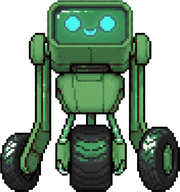
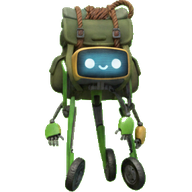
art: replace the tinted starter cogs with nano-banana Softmax cogs, one kit per seat (#1)
The four seat sprites are now a Gemini (nano-banana) render of the canonical
Softmax cog kitted for the lighthouse: the red keeper raises a brass lantern
and carries a spyglass, the blue runner wears a striped life ring, the green
runner a canvas backpack with coiled rope, the yellow runner a signal flag.
The source sheet is committed under scripts/art/source/ and
scripts/art/split_cog_sheet.py keys (edge flood fill + border-median
backdrop), splits and pads it into data/soldier_<colour>_front.png, keeping
the starter file names so the bundle script and tests are untouched.

The viewer draws runners at 1.45 cells with their wheels on the tile's lower
edge so the kit reads, with the seat tint as a ground ellipse under the
wheels (the pending ring moves there too), shows the keeper cog at the foot
of the tower, and uses the runner's own sprite in its 3x3 thumbnail.

diff --git a/client/renderer.js b/client/renderer.js
@@ -617,7 +617,7 @@
         layout.scale);
     }
 
-    drawLighthouse(ctx, layout, view, now, fx);
+    drawLighthouse(ctx, images, layout, view, now, fx);
     // The keeper's private notes, on paper under the tower: the audience
     // watches the plan form. Only where there is room for it.
     var keeper = (view.seats || [])[0];
@@ -629,7 +629,7 @@
           layout.scale);
       }
     }
-    drawThumbnails(ctx, layout, view, now);
+    drawThumbnails(ctx, images, layout, view, now);
     drawSubtitle(ctx, layout, view, now, fx);
   }
 
@@ -638,11 +638,21 @@
     var sprite = images["soldier_" + color + "_front.png"];
     var cx = layout.boardX + (seat.pos[0] + 0.5) * cell;
     var cy = layout.boardY + (seat.pos[1] + 0.5) * cell;
-    var size = cell * 0.92;
+    // The nano-banana cog is drawn larger than its tile with its wheels
+    // on the tile's lower edge, so the kit (life ring, pack, flag) reads
+    // at board scale; the seat tint sits in a ground ellipse under the
+    // wheels rather than a ring that would hide the kit.
+    var size = cell * 1.45;
+    var feet = cy + cell * 0.42;
     ctx.save();
     if (sprite && sprite.width) {
-      ctx.imageSmoothingEnabled = false;
-      ctx.drawImage(sprite, cx - size / 2, cy - size / 2, size, size);
+      ctx.fillStyle = rgba(COLOR_HEX[color], 0.55);
+      ctx.beginPath();
+      ctx.ellipse(cx, feet - cell * 0.02, cell * 0.36, cell * 0.11, 0, 0,
+        Math.PI * 2);
+      ctx.fill();
+      ctx.imageSmoothingEnabled = true;
+      ctx.drawImage(sprite, cx - size / 2, feet - size, size, size);
     } else {
       ctx.fillStyle = COLOR_HEX[color];
       ctx.fillRect(cx - size / 3, cy - size / 3, size / 1.5, size / 1.5);
@@ -652,7 +662,8 @@
       ctx.lineWidth = Math.max(1, cell * 0.07);
       ctx.setLineDash([cell * 0.2, cell * 0.16]);
       ctx.beginPath();
-      ctx.arc(cx, cy, cell * 0.52, 0, Math.PI * 2);
+      ctx.ellipse(cx, feet - cell * 0.02, cell * 0.46, cell * 0.16, 0, 0,
+        Math.PI * 2);
       ctx.stroke();
       ctx.setLineDash([]);
     }
@@ -688,7 +699,7 @@
 
   // The tower: the show's logo moment, and a second read on "the keeper
   // spoke" — the beam flares on every transmit.
-  function drawLighthouse(ctx, layout, view, now, fx) {
+  function drawLighthouse(ctx, images, layout, view, now, fx) {
     var s = Math.max(18, Math.min(46, layout.height * 0.11));
     var x = layout.margin + s * 0.6;
     var y = layout.margin + s * 1.25;
@@ -725,10 +736,17 @@
     ctx.fillRect(x - s * 0.2, y - s * 0.9, s * 0.4, s * 0.35);
     ctx.fillStyle = INK;
     ctx.fillRect(x - s * 0.24, y - s * 0.95, s * 0.48, s * 0.07);
+    // The keeper, lantern raised, at the foot of the tower.
+    var keeper = images["soldier_red_front.png"];
+    if (keeper && keeper.width) {
+      var ks = s * 1.6;
+      ctx.imageSmoothingEnabled = true;
+      ctx.drawImage(keeper, x + s * 0.2, y + s * 0.6 - ks, ks, ks);
+    }
     ctx.restore();
   }
 
-  function drawThumbnails(ctx, layout, view, now) {
+  function drawThumbnails(ctx, images, layout, view, now) {
     if (!layout.thumbs.length) return;
     var runners = runnerSeats(view);
     layout.thumbs.forEach(function (box, index) {
@@ -762,9 +780,17 @@
               ctx.fillRect(px + sub * 0.2, py + sub * 0.2, sub * 0.6,
                 sub * 0.6);
             } else if (g === "@") {
-              ctx.fillStyle = color;
-              ctx.fillRect(px + sub * 0.22, py + sub * 0.22, sub * 0.56,
-                sub * 0.56);
+              var me = images["soldier_" + seatColor(index + 1) +
+                "_front.png"];
+              if (me && me.width) {
+                ctx.imageSmoothingEnabled = true;
+                ctx.drawImage(me, px - sub * 0.1, py - sub * 0.25,
+                  sub * 1.2, sub * 1.2);
+              } else {
+                ctx.fillStyle = color;
+                ctx.fillRect(px + sub * 0.22, py + sub * 0.22, sub * 0.56,
+                  sub * 0.56);
+              }
             } else if (g === "1" || g === "2" || g === "3") {
               ctx.fillStyle = COLOR_HEX[seatColor(Number(g))];
               ctx.fillRect(px + sub * 0.3, py + sub * 0.3, sub * 0.4,

diff --git a/scripts/art/split_cog_sheet.py b/scripts/art/split_cog_sheet.py
@@ -1,0 +1,142 @@
+#!/usr/bin/env python3
+"""Splits the nano-banana cog sheet into the four seat sprites.
+
+scripts/art/source/cogs_sheet.png is a single Gemini ("nano-banana") render
+of the Softmax cog in four kits — the red keeper with a brass lantern and
+spyglass, the blue runner with a striped life ring, the green runner with a
+canvas backpack and coiled rope, the yellow runner with a signal flag — on
+a flat green backdrop. This script keys the backdrop out with an edge flood
+fill (so the green runner's kit survives), splits the row into four, crops
+each to content, pads to a square and writes 192 px RGBA sprites under the
+starter's soldier_<colour>_front.png names, so the viewer, the bundle
+script and the tests are untouched:
+
+    python3 scripts/art/split_cog_sheet.py [outdir]
+
+Default outdir is data/.
+"""
+
+import os
+import sys
+from collections import deque
+
+from PIL import Image
+
+SRC = os.path.join(os.path.dirname(__file__), "source", "cogs_sheet.png")
+ROLES = ["soldier_red_front.png", "soldier_blue_front.png",
+         "soldier_green_front.png", "soldier_yellow_front.png"]
+SIZE = 192
+TOL = 60  # colour distance from the backdrop that still counts as backdrop
+
+
+def key_background(img):
+    img = img.convert("RGBA")
+    w, h = img.size
+    px = img.load()
+    # median of the border is robust to corner smudges in the render
+    border = [px[x, y][:3] for x in range(w) for y in (0, h - 1)] + \
+        [px[x, y][:3] for y in range(h) for x in (0, w - 1)]
+    bg = tuple(sorted(c[i] for c in border)[len(border) // 2] for i in range(3))
+
+    def near(p):
+        return sum((a - b) ** 2 for a, b in zip(p[:3], bg)) ** 0.5 <= TOL
+
+    seen = bytearray(w * h)
+    q = deque()
+    for x in range(w):
+        for y in (0, h - 1):
+            q.append((x, y))
+    for y in range(h):
+        for x in (0, w - 1):
+            q.append((x, y))
+    while q:
+        x, y = q.popleft()
+        if x < 0 or y < 0 or x >= w or y >= h or seen[y * w + x]:
+            continue
+        seen[y * w + x] = 1
+        if not near(px[x, y]):
+            continue
+        px[x, y] = (0, 0, 0, 0)
+        q.extend(((x + 1, y), (x - 1, y), (x, y + 1), (x, y - 1)))
+    # soften the keyed edge: fade pixels still tinted toward the backdrop
+    for y in range(h):
+        for x in range(w):
+            r, g, b, a = px[x, y]
+            if a and g > r + 40 and g > b + 40 and abs(g - bg[1]) < 30 and abs(r - bg[0]) < 40:
+                px[x, y] = (r, g, b, 0)
+    drop_specks(px, w, h)
+    return img
+
+
+def drop_specks(px, w, h, min_area=None):
+    """Clears opaque blobs far smaller than a character (corner smudges)."""
+    min_area = min_area or w * h // 500
+    seen = bytearray(w * h)
+    for sy in range(h):
+        for sx in range(w):
+            if seen[sy * w + sx] or not px[sx, sy][3]:
+                continue
+            blob, q = [], deque([(sx, sy)])
+            seen[sy * w + sx] = 1
+            while q:
+                x, y = q.popleft()
+                blob.append((x, y))
+                for nx, ny in ((x + 1, y), (x - 1, y), (x, y + 1), (x, y - 1)):
+                    if 0 <= nx < w and 0 <= ny < h and not seen[ny * w + nx] \
+                            and px[nx, ny][3]:
+                        seen[ny * w + nx] = 1
+                        q.append((nx, ny))
+            if len(blob) < min_area:
+                for x, y in blob:
+                    px[x, y] = (0, 0, 0, 0)
+
+
+def split(img):
+    alpha = img.getchannel("A")
+    w, h = img.size
+    cols = [any(alpha.getpixel((x, y)) for y in range(h)) for x in range(w)]
+    runs, start = [], None
+    for x, on in enumerate(cols + [False]):
+        if on and start is None:
+            start = x
+        elif not on and start is not None:
+            if x - start > 20:
+                runs.append((start, x))
+            start = None
+    # Two neighbours whose kit touches (the keeper's spyglass and the life
+    # ring do) merge into one run; cut the widest run at its thinnest
+    # column near the proportional split, so a thin wrist inside a kit
+    # (the hand holding the lantern) is not mistaken for the boundary.
+    while len(runs) < len(ROLES):
+        i = max(range(len(runs)), key=lambda k: runs[k][1] - runs[k][0])
+        x0, x1 = runs[i]
+        mid = (x0 + x1) // 2
+        span = (x1 - x0) * 15 // 100
+        cut = min(range(mid - span, mid + span), key=lambda x: sum(
+            1 for y in range(h) if alpha.getpixel((x, y))))
+        runs[i:i + 1] = [(x0, cut), (cut, x1)]
+    assert len(runs) == len(ROLES), runs
+    out = []
+    for x0, x1 in runs:
+        part = img.crop((x0, 0, x1, h))
+        # a sliver of the neighbour's kit can cross the cut; drop it
+        drop_specks(part.load(), part.width, part.height,
+                    part.width * part.height // 60)
+        part = part.crop(part.getbbox())
+        side = max(part.size)
+        sq = Image.new("RGBA", (side, side), (0, 0, 0, 0))
+        sq.paste(part, ((side - part.width) // 2, side - part.height))
+        out.append(sq.resize((SIZE, SIZE), Image.LANCZOS))
+    return out
+
+
+def main():
+    outdir = sys.argv[1] if len(sys.argv) > 1 else "data"
+    os.makedirs(outdir, exist_ok=True)
+    for name, sprite in zip(ROLES, split(key_background(Image.open(SRC)))):
+        sprite.save(os.path.join(outdir, name))
+    print("cog sprites written to", outdir)
+
+
+if __name__ == "__main__":
+    main()
